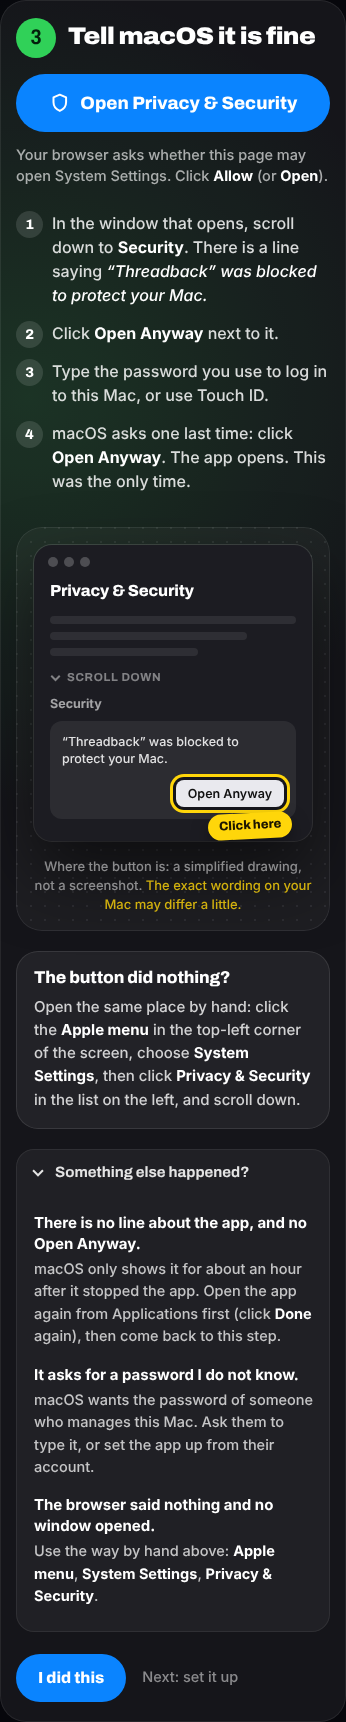
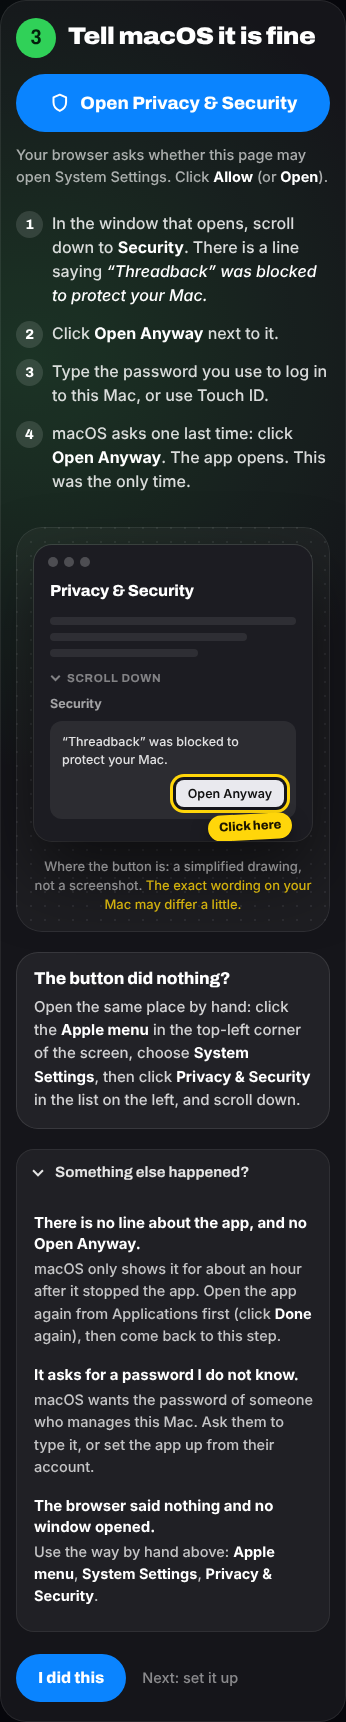
Mac page: the Download button points at the newest public release
The Mac app workflow now publishes a release from main, so the page has a
real download: releases/latest/download/Threadback-for-Mac.dmg. Tests
cover the committed address, the empty state and a relative path.

Claude-Session: https://claude.ai/code/session_01HsT3WJgxawzje31yUV686t

diff --git a/tests/js/mac-site.test.js b/tests/js/mac-site.test.js
@@ -49,7 +49,10 @@ test('mac/index.html names the product and the address in one block, in sync wit
   assert.ok((body.match(/data-brand/g) || []).length >= 6, 'the page has data-brand placeholders');
   assert.match(code('mac.js'), /Config\.PRODUCT_NAME/);
   for (const file of ['mac.js', 'mac-config.js', 'mac.css']) {
-    assert.ok(!code(file).includes(Config.PRODUCT_NAME), `${file} does not hard-code the product name`);
+    // The download's file name on the Releases page carries the name; that address is the
+    // one place outside config.js where it may appear.
+    const text = code(file).split(MacConfig.MAC_DOWNLOAD_URL || '\u0000').join('');
+    assert.ok(!text.includes(Config.PRODUCT_NAME), `${file} does not hard-code the product name`);
   }
 });
 
@@ -183,7 +186,7 @@ test('the page\'s scripts make no network calls, store nothing and build no HTML
   assert.match(css, /prefers-reduced-motion: reduce/, 'respects reduced motion');
 });
 
-test('mac-config.js: one download address, empty until it is public', () => {
+test('mac-config.js: one download address, https:// or relative, or empty', () => {
   assert.equal(typeof MacConfig.MAC_DOWNLOAD_URL, 'string');
   const url = MacConfig.MAC_DOWNLOAD_URL;
   assert.ok(url === '' || Guide.usableDownload(url) === url, `MAC_DOWNLOAD_URL is empty, https:// or relative (${url})`);

diff --git a/web/mac/mac-config.js b/web/mac/mac-config.js
@@ -1,10 +1,10 @@
 /*
  * The Mac app's download page (web/mac/): the one place its download address lives.
  *
- * MAC_DOWNLOAD_URL stays empty until there is a public download. While it is empty the
- * page shows "The download is not public yet" and a link to the project instead of the
- * Download button. To publish, put the address of the zip (or .dmg) here, for example a
- * GitHub release asset, and nothing else needs to change. tests/js/mac-site.test.js checks
+ * MAC_DOWNLOAD_URL is the public download: the disk image attached to the newest release
+ * on GitHub (the Mac app workflow publishes one from every change to the app that reaches
+ * main). If it is ever emptied, the page shows "The download is not public yet" and a link
+ * to the project instead of the Download button. tests/js/mac-site.test.js checks
  * the shape of the value; tests/e2e/mac-guide.mjs renders both states.
  */
 (function (root) {
@@ -12,7 +12,7 @@
 
   var MacConfig = {
     /** Absolute https:// address, or a path relative to web/mac/. Empty: not public yet. */
-    MAC_DOWNLOAD_URL: '',
+    MAC_DOWNLOAD_URL: 'https://github.com/averyhsu/imessage-wrap/releases/latest/download/Threadback-for-Mac.dmg',
 
     /** Where the project and its source code live. */
     SOURCE_URL: 'https://github.com/averyhsu/imessage-wrap',
